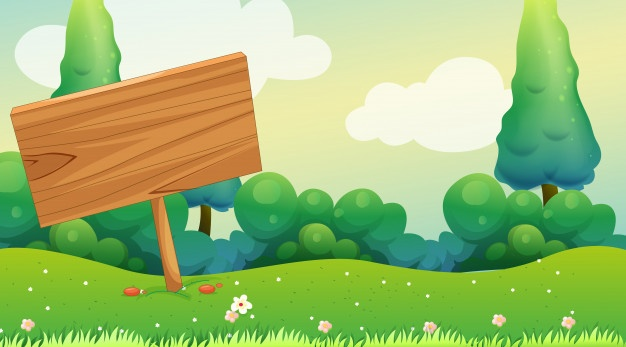
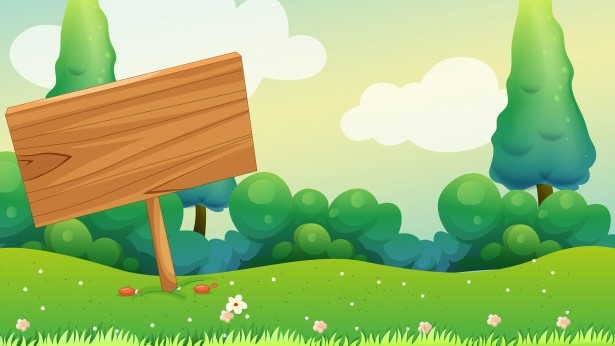
before fixing solution pictures

diff --git a/out/production/ATP-Project-PartC/View/StartStyleSheet.css b/out/production/ATP-Project-PartC/View/StartStyleSheet.css
@@ -1,12 +1,12 @@
 .root {
-    -fx-background-image: url("../images/back2.jpg");
-    -fx-background-size: cover;
+/*    -fx-background-image: url("../images/back2.jpg");
+    -fx-background-size: cover;*/
 }
 
 Button {
     -fx-text-fill: black;
     -fx-font-size: 14px;
-    -fx-font-family: "Arial Narrow";
+    -fx-font-family: "Segoe Print";
     -fx-font-weight: bold;
     -fx-background-color: rgba(0,0,0,0);
 }

diff --git a/src/View/StartStyleSheet.css b/src/View/StartStyleSheet.css
@@ -1,6 +1,6 @@
 .root {
-    -fx-background-image: url("../images/back2.jpg");
-    -fx-background-size: cover;
+/*    -fx-background-image: url("../images/back2.jpg");
+    -fx-background-size: cover;*/
 }
 
 Button {

diff --git a/src/View/StartController.java b/src/View/StartController.java
@@ -17,12 +17,17 @@ import javafx.scene.control.TextField;
 import javafx.scene.input.KeyCode;
 import javafx.scene.input.KeyEvent;
 import javafx.scene.input.MouseEvent;
+import javafx.scene.media.Media;
+import javafx.scene.media.MediaPlayer;
+import javafx.scene.media.MediaView;
 import javafx.stage.FileChooser;
 import javafx.stage.Modality;
 import javafx.stage.Stage;
+import javafx.util.Duration;
 
 import java.io.*;
 import java.net.URL;
+
 import java.util.*;
 
 public class StartController extends AView implements Initializable , Observer {
@@ -36,7 +41,9 @@ public class StartController extends AView implements Initializable , Observer {
     public MazeDisplayer mazeDisplayer;
     public Label playerRow;
     public Label playerCol;
-
+    public MediaView media;
+    private MediaPlayer mediaPlayer;
+    private static final String MEDIA_URL = "../images/backgroundVid.mp4";
     public void setViewModel(MyViewModel viewModel) {
         this.viewModel = viewModel;
         this.viewModel.addObserver(this);
@@ -44,7 +51,18 @@ public class StartController extends AView implements Initializable , Observer {
 
     @Override
     public void initialize(URL url, ResourceBundle resourceBundle) {
-
+        mediaPlayer= new MediaPlayer(new Media(this.getClass().getResource(MEDIA_URL).toExternalForm()));
+        mediaPlayer.setAutoPlay(true);
+        mediaPlayer.setOnEndOfMedia(new Runnable() {
+            @Override
+            public void run() {
+                mediaPlayer.seek(Duration.ZERO);
+                mediaPlayer.play();
+            }
+        });
+        media.setFitHeight(720); //to change
+        media.setFitWidth(1280); //to change
+        media.setMediaPlayer(mediaPlayer);
     }
 
 

diff --git a/src/View/MyViewController.java b/src/View/MyViewController.java
@@ -39,9 +39,8 @@ public class MyViewController extends AView implements Initializable, Observer {
         Parent root = fxmlLoader.load();
         //root = FXMLLoader.load(getClass().getResource("starting.fxml"));
         stage = (Stage)((Node)mouseEvent.getSource()).getScene().getWindow();
-        scene = new Scene(root);
+        scene = new Scene(root,1280, 720);
         stage.setScene(scene);
-        startB.prefWidthProperty().bind(scene.widthProperty().divide(10));
         stage.show();
         IModel model = new MyModel();
         MyViewModel viewModel = new MyViewModel(model);

diff --git a/src/View/Main.java b/src/View/Main.java
@@ -15,7 +15,7 @@ public class Main extends Application {
         FXMLLoader fxmlLoader = new FXMLLoader(getClass().getResource("MyView.fxml"));
         Parent root = fxmlLoader.load();
         primaryStage.setTitle("SuperMaze");
-        primaryStage.setScene(new Scene(root, 1234, 674));
+        primaryStage.setScene(new Scene(root, 1280, 720));
         primaryStage.show();
 
 /*        IModel model = new MyModel();

diff --git a/src/View/AView.java b/src/View/AView.java
@@ -28,8 +28,8 @@ import java.util.*;
 import java.io.File;
 
 public abstract class AView implements IView {
-    private Stage stage;
-    private Scene scene;
+    protected Stage stage;
+    protected Scene scene;
     FileChooser fileChooser = new FileChooser();
     FileChooser.ExtensionFilter extFilter = new FileChooser.ExtensionFilter("Maze Files", "*.maze");
     public MyViewModel viewModel;

diff --git a/src/View/MazeDisplayer.java b/src/View/MazeDisplayer.java
@@ -63,7 +63,6 @@ public class MazeDisplayer extends Canvas {
         this.imageFileNameSol.set(imageFileNameSol);
     }
 
-
     public String getImageFileNameRoad() {
         return imageFileNameRoad.get();
     }
